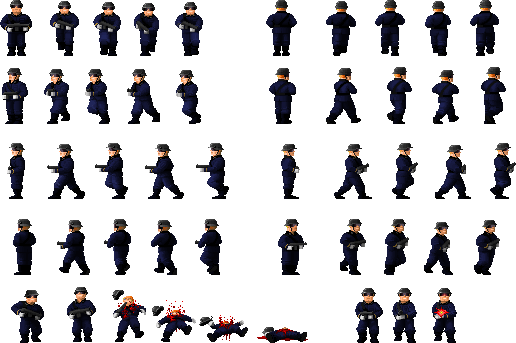
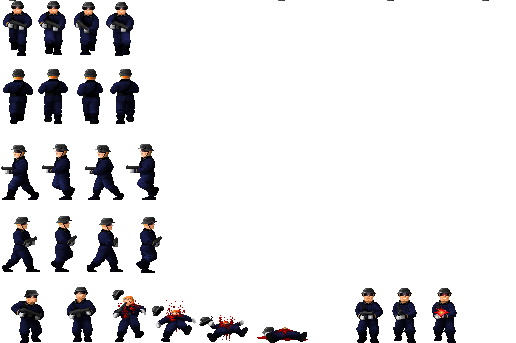
enemy sprite

diff --git a/ShootingGame/ShootingGame/Enemy.cs b/ShootingGame/ShootingGame/Enemy.cs
@@ -178,11 +178,11 @@ namespace ShootingGame
         /// </summary>
         public void CreateAnimation()
         {
-            animator.CreateAnimation("WalkBack", new Animation(4, 0, 6, 52, 60, 10, Vector2.Zero));
-            animator.CreateAnimation("WalkLeft", new Animation(5, 140, 1, 50, 60, 10, Vector2.Zero));
-            animator.CreateAnimation("WalkRight", new Animation(4, 140, 6, 53, 60, 10, Vector2.Zero));
-            animator.CreateAnimation("WalkFront", new Animation(5, 0, 0, 40, 60, 10, Vector2.Zero));
-            animator.CreateAnimation("Shoot", new Animation(3, 285, 10, 35, 60, 5, Vector2.Zero));
+            animator.CreateAnimation("WalkBack", new Animation(4, 68, 0, 35, 60, 10, Vector2.Zero));
+            animator.CreateAnimation("WalkLeft", new Animation(4, 140, 0, 42, 60, 10, Vector2.Zero));
+            animator.CreateAnimation("WalkRight", new Animation(4, 215, 0, 42, 60, 10, Vector2.Zero));
+            animator.CreateAnimation("WalkFront", new Animation(4, 0, 0, 35, 60, 10, Vector2.Zero));
+            animator.CreateAnimation("Shoot", new Animation(2, 285, 11, 35, 60, 5, Vector2.Zero));
             animator.CreateAnimation("Die", new Animation(5, 288, 0, 50, 60, 4, Vector2.Zero));
             animator.PlayAnimation("Shoot");
         }
